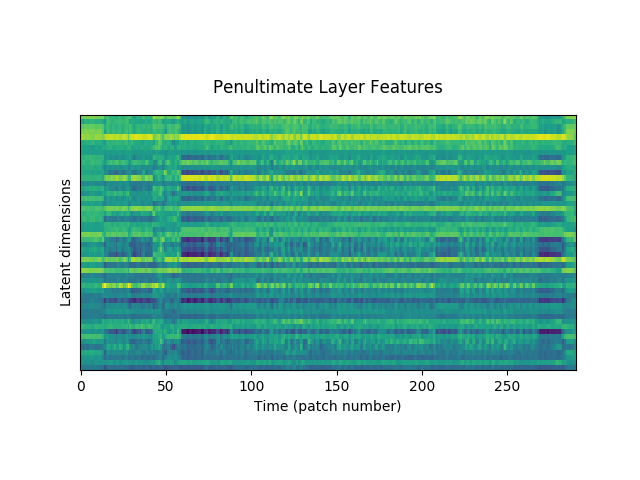
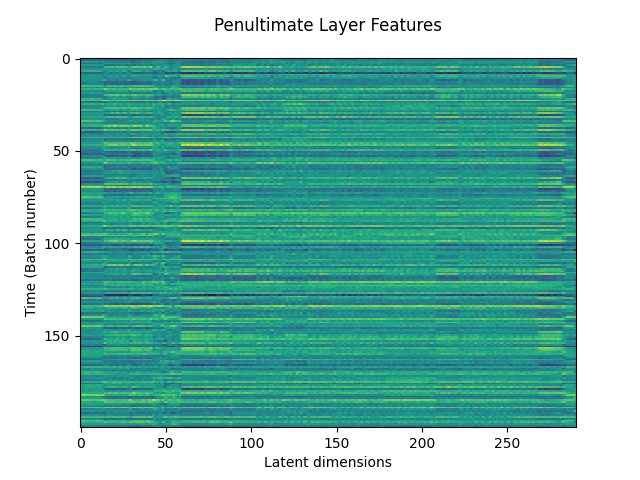
Change the penultimate layer extraction example
With the new name convention:
    model/dense_1/BiasAdd -> logits (50 units)
    model/dense/BiasAdd -> penultimate layer (200 units)

The image representing the penultimate layer features is also updated

diff --git a/_posts/2020-01-16-tensorflow-models-released.md b/_posts/2020-01-16-tensorflow-models-released.md
@@ -223,7 +223,7 @@ sr = 16000
 audio = MonoLoader(filename='/your/amazing/song.wav', sampleRate=sr)()
 
 # Retrieve the output of the penultimate layer
-penultimate_layer = TensorflowPredictMusiCNN(graphFilename='msd-musicnn.pb', output='model/dense_1/BiasAdd')(audio)
+penultimate_layer = TensorflowPredictMusiCNN(graphFilename='msd-musicnn.pb', output='model/dense/BiasAdd')(audio)
 
 ```
 The following plot shows how these features look like:
